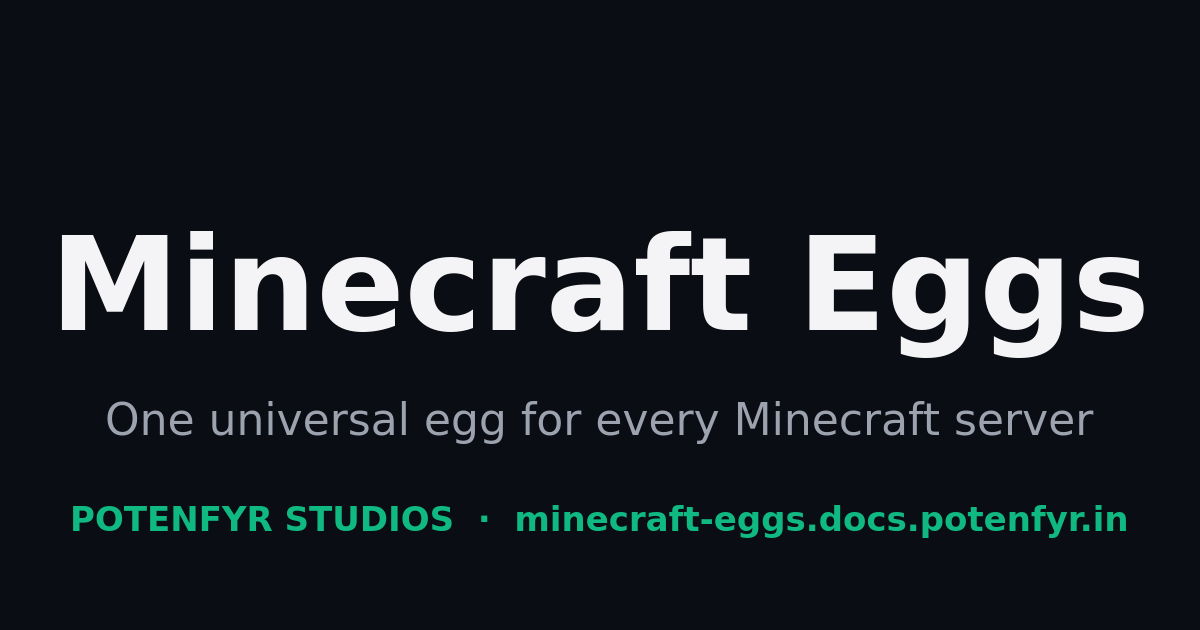
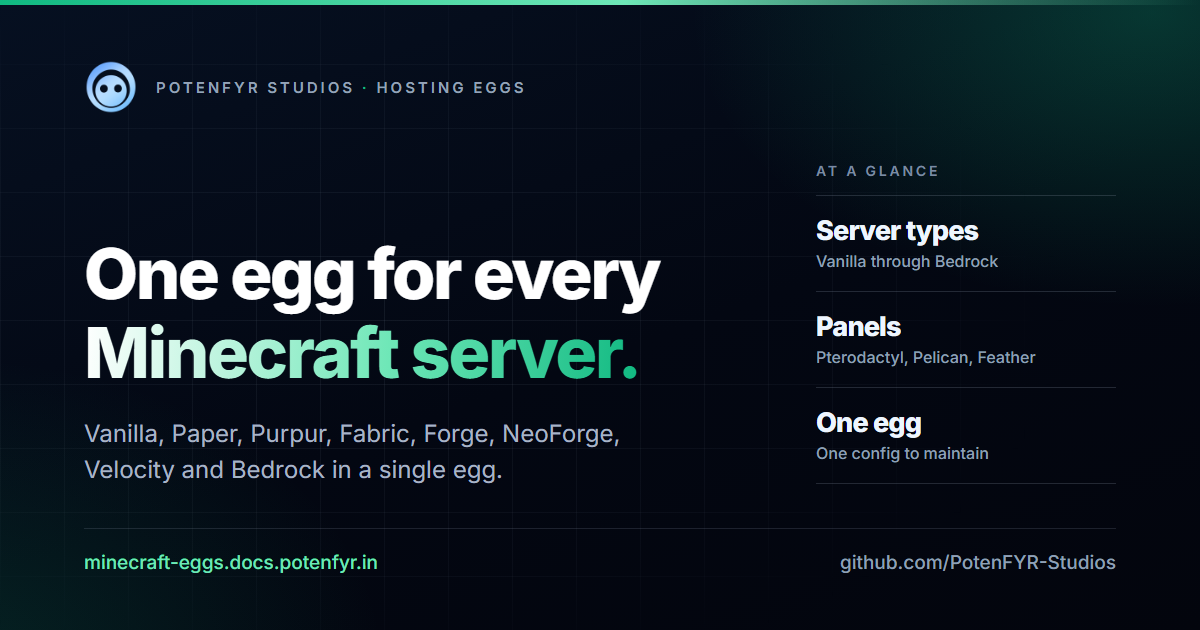
feat(docs): redesigned OG card rendered from a committed script

diff --git a/docs/scripts/og/card.html b/docs/scripts/og/card.html
@@ -1,0 +1,199 @@
+<!doctype html>
+<html lang="en">
+  <head>
+    <meta charset="utf-8" />
+    <title>Minecraft-Eggs link preview</title>
+    <!--
+      Shared template for PotenFYR Studios project OG cards.
+      Edit only the CONFIG block below; the layout stays identical across the org
+      so every project's link preview reads as one family.
+      Render with: bun run og:image  (scripts/og/build-og.mjs)
+    -->
+    <link rel="preconnect" href="https://fonts.googleapis.com" />
+    <link rel="preconnect" href="https://fonts.gstatic.com" crossorigin />
+    <link
+      href="https://fonts.googleapis.com/css2?family=Inter:wght@400;500;600;700;800&display=swap"
+      rel="stylesheet"
+    />
+    <style>
+      /* ---------------- CONFIG ---------------- */
+      :root {
+        --accent: #10b981;         /* project accent, matches the docs site */
+        --accent-soft: #6ee7b7;    /* lighter tint of --accent */
+      }
+      /* ---------------- /CONFIG --------------- */
+
+      * { box-sizing: border-box; margin: 0; padding: 0; }
+      html, body { width: 1200px; height: 630px; overflow: hidden; }
+      body {
+        font-family: 'Inter', 'Segoe UI', system-ui, sans-serif;
+        background: #030712;
+        color: #fff;
+        -webkit-font-smoothing: antialiased;
+      }
+
+      .card {
+        position: relative;
+        width: 1200px;
+        height: 630px;
+        padding: 60px 84px 56px;
+        display: flex;
+        flex-direction: column;
+        background:
+          radial-gradient(720px 460px at 96% 2%, color-mix(in srgb, var(--accent) 26%, transparent), transparent 64%),
+          radial-gradient(700px 500px at -4% 106%, color-mix(in srgb, var(--accent) 16%, transparent), transparent 62%),
+          linear-gradient(160deg, #061021 0%, #030712 54%, #03050d 100%);
+        overflow: hidden;
+      }
+
+      .grid {
+        position: absolute;
+        inset: 0;
+        background-image:
+          linear-gradient(to right, rgba(148, 163, 184, 0.10) 1px, transparent 1px),
+          linear-gradient(to bottom, rgba(148, 163, 184, 0.10) 1px, transparent 1px);
+        background-size: 64px 64px;
+        -webkit-mask-image: radial-gradient(780px 430px at 32% 50%, #000 0%, rgba(0, 0, 0, 0.5) 60%, transparent 88%);
+        mask-image: radial-gradient(780px 430px at 32% 50%, #000 0%, rgba(0, 0, 0, 0.5) 60%, transparent 88%);
+      }
+
+      .edge {
+        position: absolute;
+        top: 0; left: 0; right: 0;
+        height: 5px;
+        background: linear-gradient(90deg, var(--accent) 0%, var(--accent-soft) 52%, transparent 100%);
+      }
+
+      .content { position: relative; z-index: 2; display: flex; flex-direction: column; height: 100%; }
+
+      .lockup { display: flex; align-items: center; gap: 18px; }
+      .lockup img { width: 54px; height: 54px; display: block; }
+      .lockup .studio {
+        font-size: 15px;
+        font-weight: 600;
+        letter-spacing: 0.2em;
+        text-transform: uppercase;
+        color: #94a3b8;
+      }
+      .lockup .studio em { font-style: normal; color: var(--accent); }
+
+      .body {
+        margin-top: auto;
+        display: flex;
+        align-items: flex-end;
+        justify-content: space-between;
+        gap: 54px;
+      }
+      .copy { max-width: 720px; }
+
+      h1 {
+        font-size: 70px;
+        line-height: 1.12;
+        font-weight: 800;
+        letter-spacing: -0.035em;
+      }
+      h1 .grad {
+        background: linear-gradient(96deg, #ffffff 0%, var(--accent-soft) 55%, var(--accent) 100%);
+        -webkit-background-clip: text;
+        background-clip: text;
+        -webkit-text-fill-color: transparent;
+      }
+
+      p.lede {
+        margin-top: 24px;
+        font-size: 24px;
+        line-height: 1.5;
+        color: #a8b4c6;
+      }
+
+      .facts { display: flex; flex-direction: column; min-width: 300px; padding-bottom: 4px; }
+      .facts .eyebrow {
+        font-size: 14px;
+        font-weight: 600;
+        letter-spacing: 0.2em;
+        text-transform: uppercase;
+        color: #7c8ba1;
+        padding-bottom: 16px;
+      }
+      .fact {
+        border-top: 1px solid rgba(148, 163, 184, 0.22);
+        padding: 18px 0 20px;
+      }
+      .fact.last { border-bottom: 1px solid rgba(148, 163, 184, 0.22); }
+      .fact b {
+        display: block;
+        font-size: 27px;
+        font-weight: 800;
+        letter-spacing: -0.03em;
+        color: #eef6ff;
+      }
+      .fact span {
+        display: block;
+        margin-top: 4px;
+        font-size: 16px;
+        font-weight: 500;
+        color: #8fa0b6;
+      }
+
+      .foot {
+        margin-top: 40px;
+        display: flex;
+        align-items: center;
+        justify-content: space-between;
+        border-top: 1px solid rgba(148, 163, 184, 0.18);
+        padding-top: 22px;
+        font-size: 19px;
+        font-weight: 500;
+      }
+      .foot .domain { color: var(--accent-soft); }
+      .foot .org { color: #8fa0b6; }
+    </style>
+  </head>
+  <body>
+    <div class="card">
+      <div class="grid"></div>
+      <div class="edge"></div>
+
+      <div class="content">
+        <div class="lockup">
+          <img src="../../public/favicon.png" alt="" />
+          <div class="studio">PotenFYR Studios <em>·</em> Hosting Eggs</div>
+        </div>
+
+        <div class="body">
+          <div class="copy">
+            <h1>
+              One egg for every<br />
+              <span class="grad">Minecraft server.</span>
+            </h1>
+            <p class="lede">
+              Vanilla, Paper, Purpur, Fabric, Forge, NeoForge,<br />
+              Velocity and Bedrock in a single egg.
+            </p>
+          </div>
+
+          <div class="facts">
+            <div class="eyebrow">At a glance</div>
+            <div class="fact">
+              <b>Server types</b>
+              <span>Vanilla through Bedrock</span>
+            </div>
+            <div class="fact">
+              <b>Panels</b>
+              <span>Pterodactyl, Pelican, Feather</span>
+            </div>
+            <div class="fact last">
+              <b>One egg</b>
+              <span>One config to maintain</span>
+            </div>
+          </div>
+        </div>
+
+        <div class="foot">
+          <div class="domain">minecraft-eggs.docs.potenfyr.in</div>
+          <div class="org">github.com/PotenFYR-Studios</div>
+        </div>
+      </div>
+    </div>
+  </body>
+</html>
